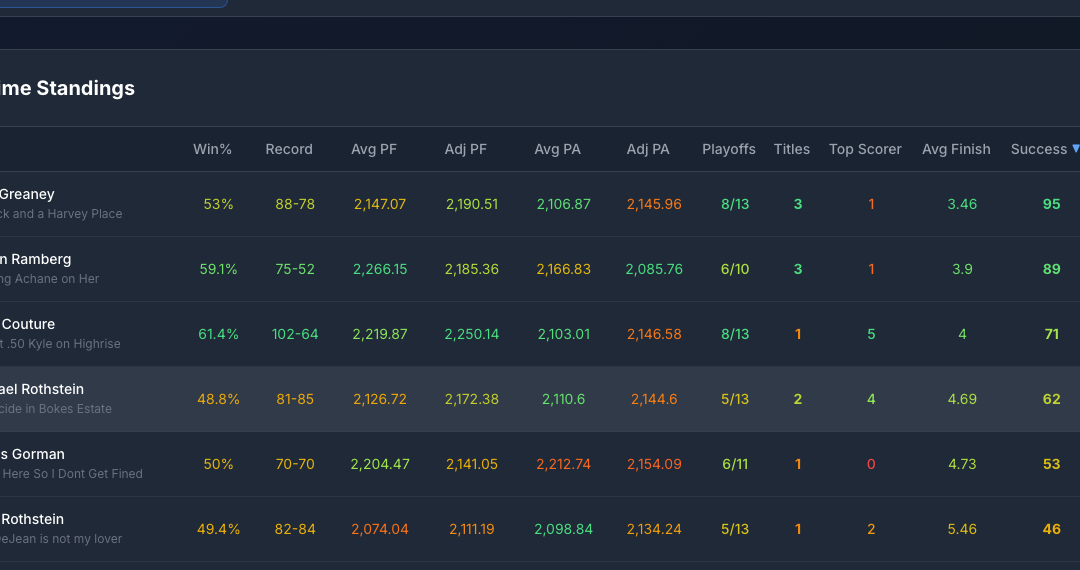
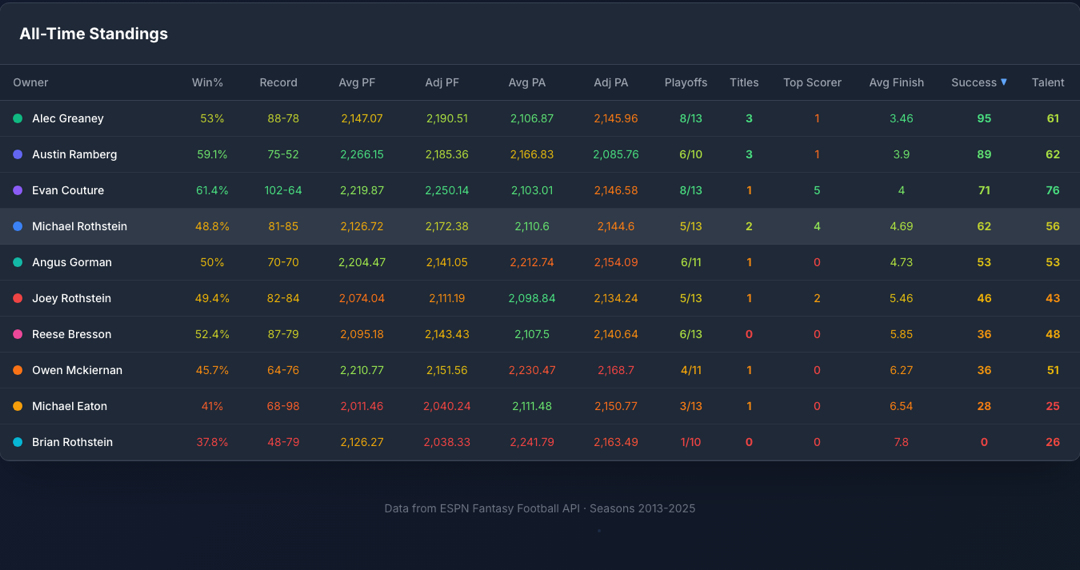
chore: scrub joke fantasy team names from analytics pages and data
Team names (and name-derived abbreviations) removed from the served
JSON, the fetch script output, the component display (standings
subtitle + chart tooltip), and the Projects card screenshot. Teams are
identified by owner name everywhere. Unreferenced team-name CSV deleted.

diff --git a/src/components/FantasyFootball.jsx b/src/components/FantasyFootball.jsx
@@ -52,13 +52,10 @@ function processData(raw) {
         teamHistories[t.teamId] = {
           teamId: t.teamId,
           ownerName: t.ownerName,
-          currentName: t.teamName,
           seasons: {},
         };
       }
       teamHistories[t.teamId].seasons[year] = t;
-      // Update current name to latest
-      teamHistories[t.teamId].currentName = t.teamName;
       teamHistories[t.teamId].ownerName = t.ownerName;
     });
   });
@@ -394,7 +391,6 @@ const FantasyFootball = () => {
             lines.push(`Record: ${season.wins}-${season.losses}`);
             lines.push(`Points Against: ${season.pointsAgainst.toLocaleString()}`);
             lines.push(`Playoffs: ${season.madePlayoffs ? 'Yes' : 'No'}`);
-            lines.push(`Team: ${season.teamName}`);
             return lines;
           }
         }
@@ -593,10 +589,7 @@ const FantasyFootball = () => {
                             <td style={{ padding: '0.75rem 1rem' }}>
                               <div style={{ display: 'flex', alignItems: 'center', gap: '0.75rem' }}>
                                 <div style={{ width: 12, height: 12, borderRadius: '50%', backgroundColor: color.bg, flexShrink: 0 }}></div>
-                                <div>
-                                  <div className="text-white font-medium">{team.ownerName}</div>
-                                  <div style={{ color: '#6b7280', fontSize: '0.75rem', overflow: 'hidden', textOverflow: 'ellipsis', whiteSpace: 'nowrap', maxWidth: 180 }}>{team.currentName}</div>
-                                </div>
+                                <div className="text-white font-medium">{team.ownerName}</div>
                               </div>
                             </td>
                             <td className="text-center px-3 py-3" style={{ color: heatColor(getColumnPct(team.winPct, allWinPct)) }}>

diff --git a/scripts/fetchFantasyData.js b/scripts/fetchFantasyData.js
@@ -117,8 +117,8 @@ function extractSeasonData(raw, year) {
 
     return {
       teamId: team.id,
-      teamName: team.name || (team.location + ' ' + team.nickname),
-      abbreviation: team.abbrev || '',
+      // teamName/abbreviation intentionally omitted — joke team names aren't
+      // appropriate for a portfolio page; the UI identifies teams by owner.
       ownerName: OWNER_NAMES[primaryOwnerId] || 'Unknown',
       wins: regularSeasonWins,
       losses: regularSeasonLosses,
